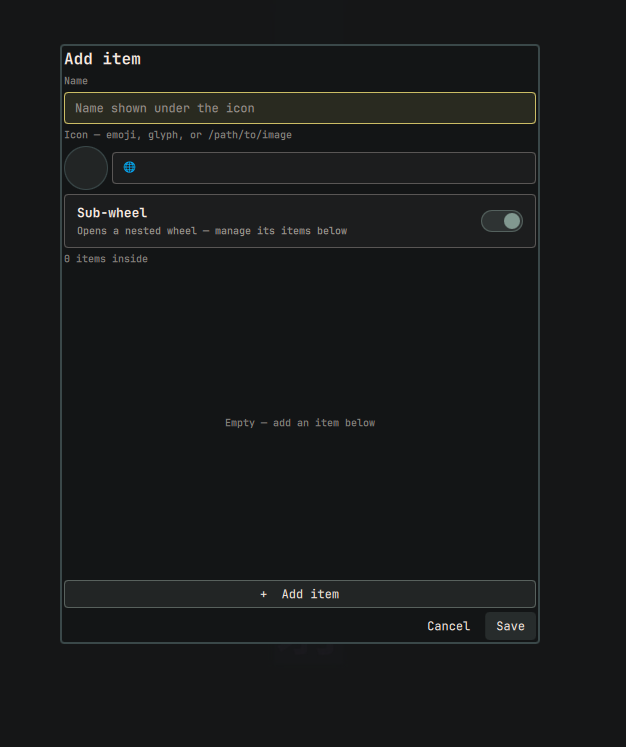
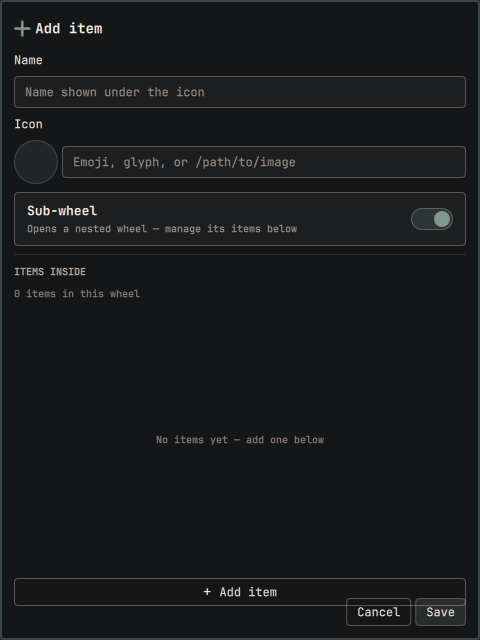
Refresh editor screenshots and README for the polished panel
New shots of the browse view, the add-item form, and the sub-wheel
form against the restyled editor; the Selection dropdown reference
becomes the Selection section (segmented Click/Stroke buttons).

diff --git a/README.md b/README.md
@@ -92,7 +92,7 @@ omarchy-shell shell hide palccod.omas                 # dismiss
 4. At the root wheel, the center circle says **settings**: click it to
    open the wheel editor.
 
-In **stroke mode** (set it in the editor's *Selection* dropdown, or summon
+In **stroke mode** (set it in the editor's *Selection* section, or summon
 with `{"mode":"stroke"}`): press anywhere and drag through the items —
 stop (dwell) or make a sharp turn to select, keep the button held to
 chain through sub-wheels, drag into the center to go back. Release over
